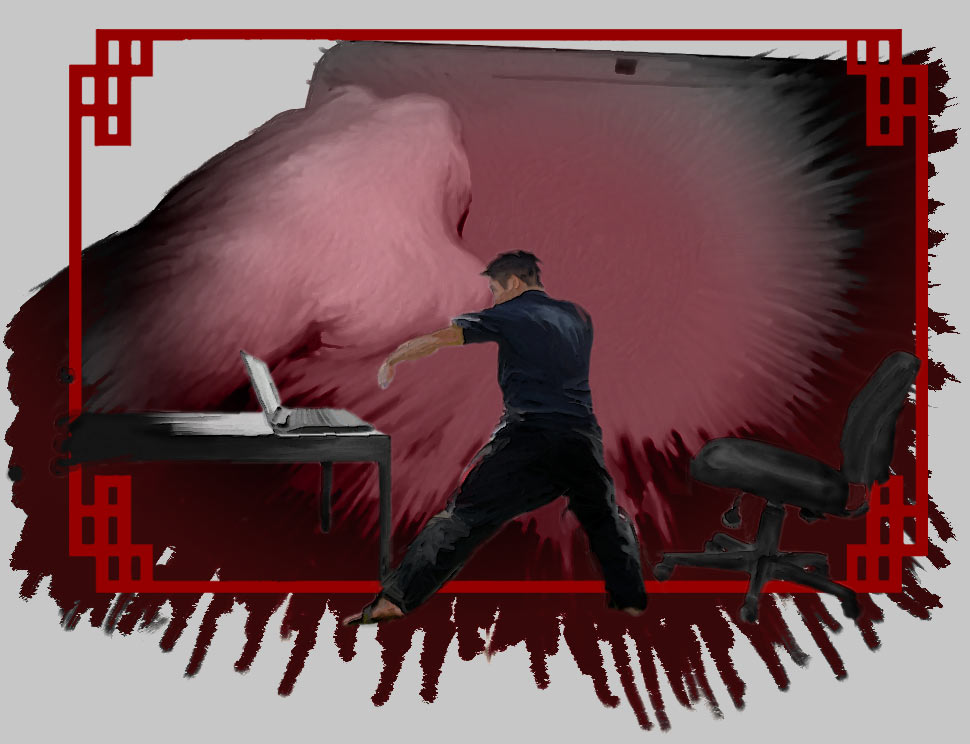
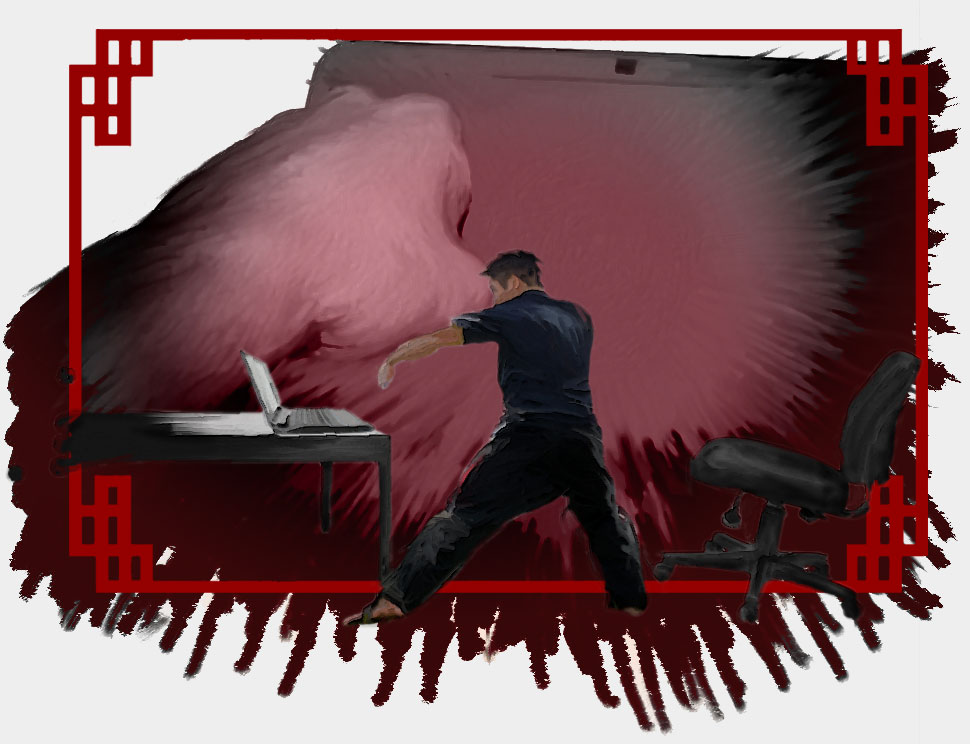
Add debug canvas control

Changed region(s): [[0.0, 0.0, 1.0, 1.0], [0.1546, 0.7419, 0.1856, 0.7728]]

diff --git a/app/scripts/engine.js b/app/scripts/engine.js
@@ -27,6 +27,7 @@ var motionDetector = (function() {
         contextScale,
         lastImageData,
         regions = [],
+        maxPixelCount = [],
         w,
         h,
         options,
@@ -134,7 +135,10 @@ var motionDetector = (function() {
 
         for (r = regions.length - 1; 0 <= r; r-- ) {
             region = regions[r];
-            pixelCount = motionByRegion[r];
+            if (!maxPixelCount[r] || maxPixelCount[r] < motionByRegion[r]) {
+                maxPixelCount[r] = motionByRegion[r];
+            }
+            pixelCount = maxPixelCount[r];
             alpha = pixelCount / 100;
 
             contextBlend.beginPath();
@@ -142,6 +146,10 @@ var motionDetector = (function() {
             contextBlend.fillStyle = 'rgba(255, 100, 100, ' + alpha + ')';
             contextBlend.fill();
             contextBlend.stroke();
+
+            if (5 < maxPixelCount[r]) {
+                maxPixelCount[r] -= 2;
+            }
         }
     }
 
@@ -283,8 +291,11 @@ var motionDetector = (function() {
         motionByRegion = detectMotionByRegion(motionData.data);
 
         if (showDebugData) {
+            contextBlend.canvas.style.display = 'block';
             contextBlend.putImageData(motionData, 0, 0);
             drawRegions(motionByRegion);
+        } else {
+            contextBlend.canvas.style.display = 'none';
         }
 
         return motionByRegion;
@@ -426,25 +437,27 @@ var music = (function() {
     var module = {},
         masterGain,
         context,
-        musicLoop;
+        musicLoop,
+        gain = 1;
 
     window.AudioContext = window.AudioContext || window.webkitAudioContext;
     context = new AudioContext();
     masterGain = context.createGain();
     masterGain.connect(context.destination);
 
-    module.load = function() {
-            var bufferLoader = new BufferLoader(
-                context,
-                ['assets/audio/music-loop-01.mp3'],
-                finishedLoading
-            );
-
-            bufferLoader.load();
-        };
+    module.load = function(initialVolume) {
+        var bufferLoader = new BufferLoader(
+            context,
+            ['assets/audio/music-loop-01.mp3'],
+            finishedLoading
+        );
+        gain = initialVolume;
+        bufferLoader.load();
+    };
 
     function finishedLoading(bufferList) {
         musicLoop = new Sound(bufferList[0], context, masterGain);
+        musicLoop.setGain(gain);
     }
 
     module.play = function() {
@@ -452,6 +465,28 @@ var music = (function() {
             musicLoop.play(null, true);
         }
     };
+
+    module.setVolume = function(val) {
+        if (0 <= val && val <= 1) {
+            gain = val;
+            musicLoop.setGain(gain);
+        }
+    };
+
+    module.fadeOut = function() {
+        fadeOut();
+    };
+
+    function fadeOut() {
+        var decrement = 0.05;
+        if (decrement <= gain) {
+            gain -= decrement;
+            module.setVolume(gain);
+            setTimeout(fadeOut, 700);
+        } else {
+            musicLoop.stop();
+        }
+    }
 
     return module;
 
@@ -645,7 +680,8 @@ var hgEngine = (function() {
         canvasOut,
         contextOut,
         w,
-        h;
+        h,
+        showDebugCanvas = false;
 
     module.init = function(outputElement, width, height, onPlayCallback) {
         w = width;
@@ -654,9 +690,21 @@ var hgEngine = (function() {
         contextOut = canvasOut.getContext('2d');
         motionDetector.init();
         sfx.loadSounds();
-        music.load();
+        music.load(0.6);
         createVideoElement();
         startCapturing(onPlayCallback);
+    };
+
+    module.fadeOutMusic = function() {
+        music.fadeOut();
+    };
+
+    module.showDebugCanvas = function(val) {
+        if (typeof val !== 'undefined') {
+            showDebugCanvas = !!val;
+        } else {
+            return showDebugCanvas;
+        }
     };
 
     function createVideoElement() {
@@ -729,7 +777,7 @@ var hgEngine = (function() {
         var motionData;
 
         drawVideo();
-        motionData = motionDetector.analyze(contextOut, true);
+        motionData = motionDetector.analyze(contextOut, showDebugCanvas);
         sfx.generate(motionData);
         requestAnimationFrame(update);
     }

diff --git a/app/scripts/engine/motionDetector.js b/app/scripts/engine/motionDetector.js
@@ -23,6 +23,7 @@ var motionDetector = (function() {
         contextScale,
         lastImageData,
         regions = [],
+        maxPixelCount = [],
         w,
         h,
         options,
@@ -130,7 +131,10 @@ var motionDetector = (function() {
 
         for (r = regions.length - 1; 0 <= r; r-- ) {
             region = regions[r];
-            pixelCount = motionByRegion[r];
+            if (!maxPixelCount[r] || maxPixelCount[r] < motionByRegion[r]) {
+                maxPixelCount[r] = motionByRegion[r];
+            }
+            pixelCount = maxPixelCount[r];
             alpha = pixelCount / 100;
 
             contextBlend.beginPath();
@@ -138,6 +142,10 @@ var motionDetector = (function() {
             contextBlend.fillStyle = 'rgba(255, 100, 100, ' + alpha + ')';
             contextBlend.fill();
             contextBlend.stroke();
+
+            if (5 < maxPixelCount[r]) {
+                maxPixelCount[r] -= 2;
+            }
         }
     }
 
@@ -279,8 +287,11 @@ var motionDetector = (function() {
         motionByRegion = detectMotionByRegion(motionData.data);
 
         if (showDebugData) {
+            contextBlend.canvas.style.display = 'block';
             contextBlend.putImageData(motionData, 0, 0);
             drawRegions(motionByRegion);
+        } else {
+            contextBlend.canvas.style.display = 'none';
         }
 
         return motionByRegion;

diff --git a/app/scripts/engine/engine.js b/app/scripts/engine/engine.js
@@ -11,7 +11,8 @@ var hgEngine = (function() {
         canvasOut,
         contextOut,
         w,
-        h;
+        h,
+        showDebugCanvas = false;
 
     module.init = function(outputElement, width, height, onPlayCallback) {
         w = width;
@@ -20,9 +21,21 @@ var hgEngine = (function() {
         contextOut = canvasOut.getContext('2d');
         motionDetector.init();
         sfx.loadSounds();
-        music.load();
+        music.load(0.6);
         createVideoElement();
         startCapturing(onPlayCallback);
+    };
+
+    module.fadeOutMusic = function() {
+        music.fadeOut();
+    };
+
+    module.showDebugCanvas = function(val) {
+        if (typeof val !== 'undefined') {
+            showDebugCanvas = !!val;
+        } else {
+            return showDebugCanvas;
+        }
     };
 
     function createVideoElement() {
@@ -95,7 +108,7 @@ var hgEngine = (function() {
         var motionData;
 
         drawVideo();
-        motionData = motionDetector.analyze(contextOut, true);
+        motionData = motionDetector.analyze(contextOut, showDebugCanvas);
         sfx.generate(motionData);
         requestAnimationFrame(update);
     }

diff --git a/app/index.html b/app/index.html
@@ -56,7 +56,8 @@
         <div class="output-container">
             <div class="letterbox top"></div>
             <canvas id="output"></canvas>
-            <div class="letterbox bottom"></div>
+            <div class="letterbox bottom">
+            </div>
         </div>
 
         <div class="overlay hidden">
@@ -75,6 +76,16 @@
             <small>An experiment in</small> Web RTC <small>and</small> Web Audio <small>by</small> Michael Bromley<br>
             <small>Based on a motion detection concept by </small> <a href="http://www.adobe.com/devnet/archive/html5/articles/javascript-motion-detection.html">Soundstep</a>
             <small>and an implementation by</small> <a href="https://github.com/ReallyGood/js-motion-detection">Really Good</a><br>
+        </div>
+
+        <div class="settings">
+            <div class="settings-panel hidden">
+                <label>
+                    <input type="checkbox" class="display-debug">
+                    Display motion detection canvas
+                </label>
+            </div>
+            <i class="icon-cogs settings-icon"></i>
         </div>
 
 

diff --git a/app/styles/main.scss b/app/styles/main.scss
@@ -1,8 +1,10 @@
+@import "icons";
+
 $title-font: 'Carter One', cursive;
 $poster-font: 'Six Caps', sans-serif;
 
 body {
-  background-color: #c7c7c7;
+  background-color: #eee;
   font-family: "Helvetica Neue", Helvetica, Arial, sans-serif;
   color: #333;
   transition: background-color 1s;
@@ -36,7 +38,7 @@ body {
   .letterbox {
     position: absolute;
     left: 0;
-    width: 100vw;
+    width: 100%;
     height: 10vh;
     background-color: #000000;
     &.top {
@@ -44,6 +46,36 @@ body {
     }
     &.bottom {
       bottom: 0;
+    }
+  }
+}
+
+.settings {
+  position: fixed;
+  bottom: 0;
+  left: 0;
+  text-align: left;
+  padding: 10px;
+  z-index: 100;
+  .settings-icon {
+    font-size: 32px;
+    color: #999;
+    cursor: pointer;
+    &:hover {
+      color: #bbb;
+    }
+  }
+  .settings-panel {
+    position: absolute;
+    bottom: 50px;
+    left: 10px;
+    border: 1px solid red;
+    background-color: #333;
+    color: #ddd;
+    width: 300px;
+    padding: 20px;
+    &.hidden {
+      display: none;
     }
   }
 }

diff --git a/app/styles/icons.scss b/app/styles/icons.scss
@@ -1,0 +1,31 @@
+@font-face {
+	font-family: 'icomoon';
+	src:url('../assets/fonts/icomoon.eot?i1tp09');
+	src:url('../assets/fonts/icomoon.eot?#iefixi1tp09') format('embedded-opentype'),
+		url('../assets/fonts/icomoon.woff?i1tp09') format('woff'),
+		url('../assets/fonts/icomoon.ttf?i1tp09') format('truetype'),
+		url('../assets/fonts/icomoon.svg?i1tp09#icomoon') format('svg');
+	font-weight: normal;
+	font-style: normal;
+}
+
+[class^="icon-"], [class*=" icon-"] {
+	font-family: 'icomoon';
+	speak: none;
+	font-style: normal;
+	font-weight: normal;
+	font-variant: normal;
+	text-transform: none;
+	line-height: 1;
+
+	/* Better Font Rendering =========== */
+	-webkit-font-smoothing: antialiased;
+	-moz-osx-font-smoothing: grayscale;
+}
+
+.icon-cogs:before {
+	content: "\f085";
+}
+.icon-github:before {
+	content: "\f09b";
+}

diff --git a/app/scripts/main.js b/app/scripts/main.js
@@ -15,7 +15,15 @@ $('.start').on('click', function(e) {
     initSequencer();
     setTimeout(function() {
         startMovie(onMovieStarted);
-    }, 1);
+    }, 3500);
+});
+
+$('.settings-icon').on('click', function() {
+    $('.settings-panel').toggleClass('hidden');
+});
+
+$('.display-debug').on('change', function() {
+    hgEngine.showDebugCanvas($(this).is(':checked'));
 });
 
 function onMovieStarted() {
@@ -65,6 +73,7 @@ function initSequencer() {
     });
     sequencer.registerEvent(30000, function() {
         $('.overlay').addClass('hidden');
+        hgEngine.fadeOutMusic();
     });
 }
 
